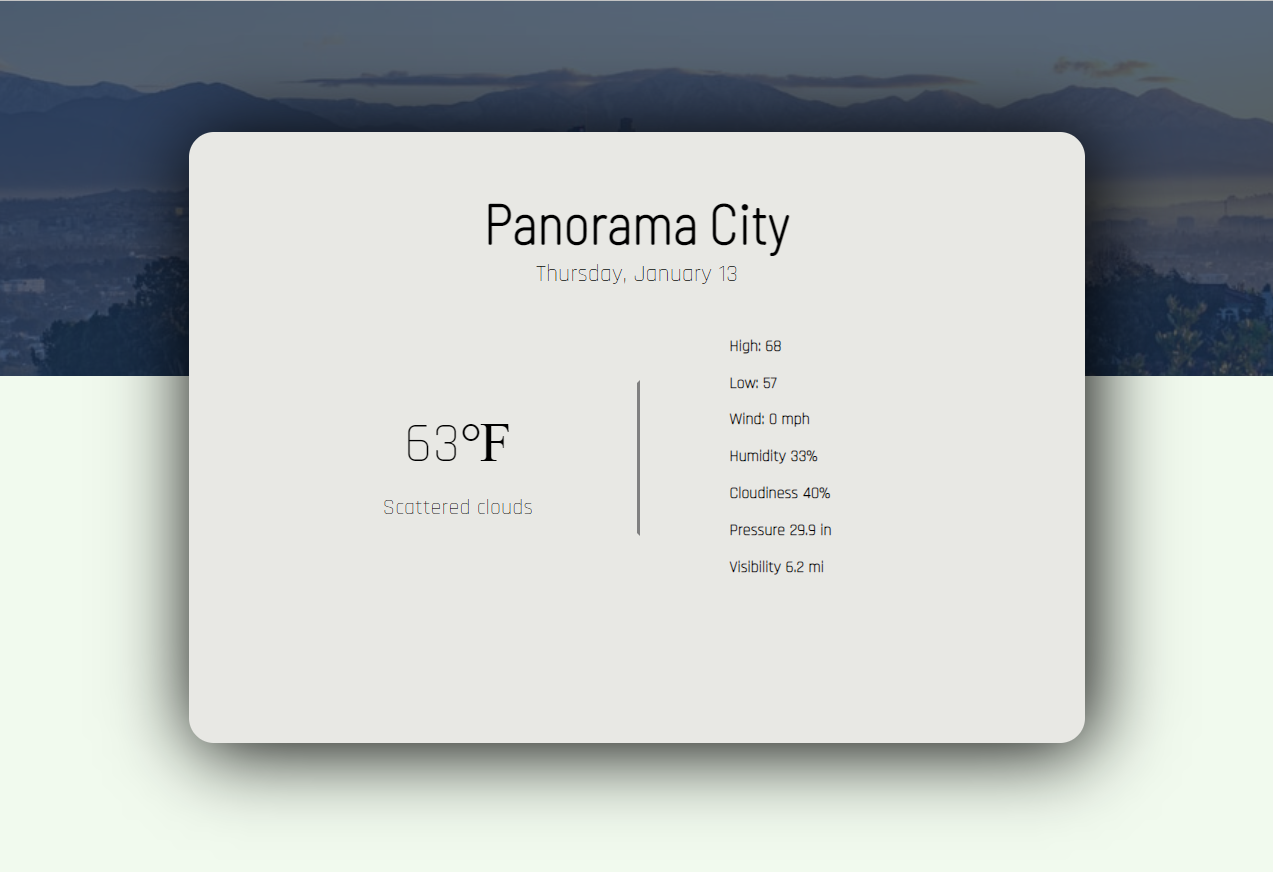
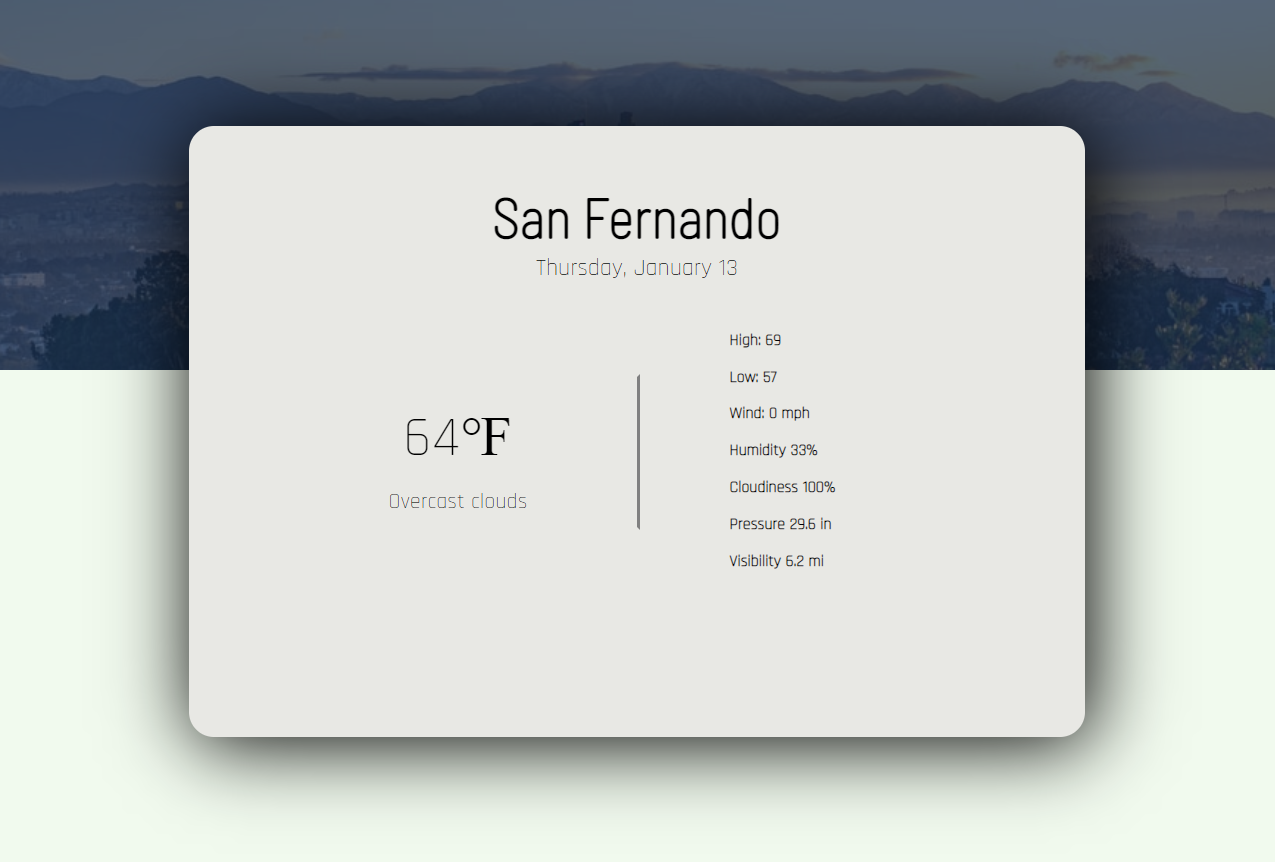
new geolocation

diff --git a/weather.js b/weather.js
@@ -12,11 +12,16 @@ if (navigator.geolocation) {
         latitude = position.coords.latitude;
         longitude = position.coords.longitude;
         URL =  "https://api.openweathermap.org/data/2.5/weather?lat=" + latitude +"&lon=" + longitude + "&appid=" + key ;
-        console.log(latitude,longitude);
+        console.log(latitude,longitude,URL);
+        displayData();
     });
-  }
+}
+else{
+    displayData();
+}
 
-var today = new Date();
+function displayData(){
+    var today = new Date();
 const days = ["Sunday", "Monday", "Tuesday", "Wednesday", "Thursday", "Friday", "Saturday"];
 const months = ["January","February","March","April","May","June","July","August","September","October","November","December"];
 var [day, month, date] = [today.getDay(),today.getMonth(), today.getDate()];
@@ -78,6 +83,11 @@ fetch(URL)
         pressure.textContent = "Pressure 30.2 in";
         visibilityValue.textContent = "Visibility 6.2 mi";
     })
+
+}
+
+
+
 /*
 	 City                   response.name
     Day, Month Date         
